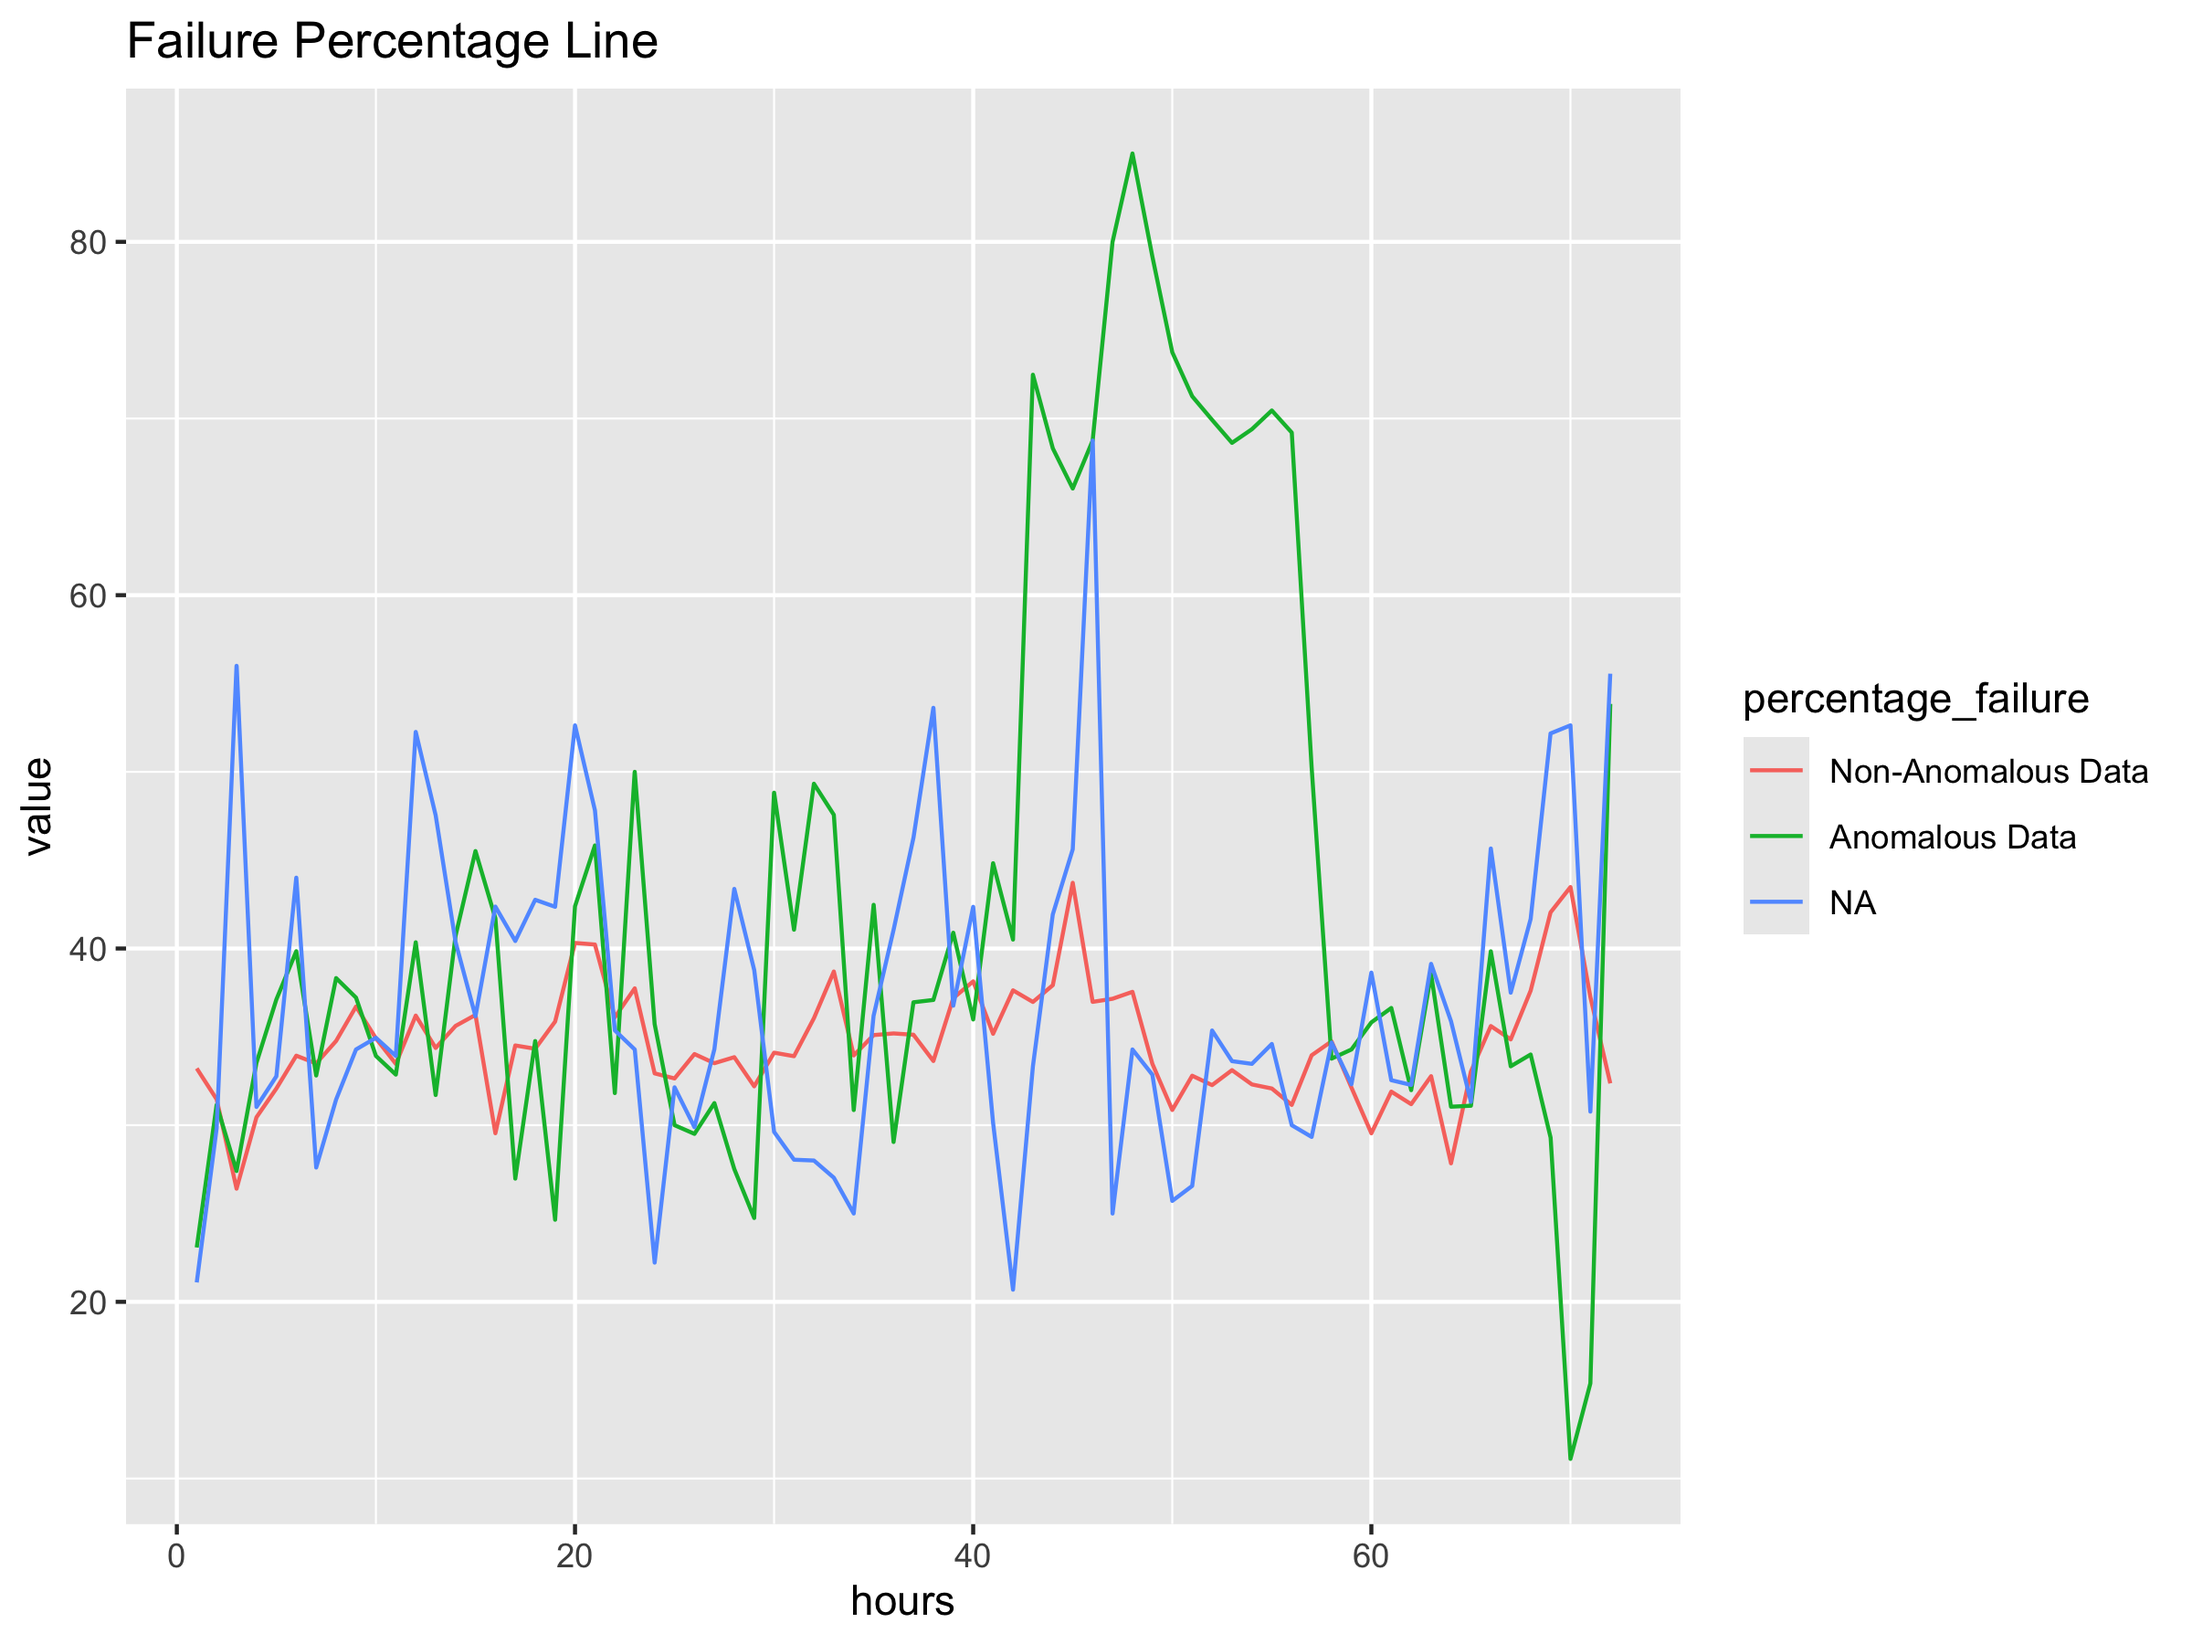
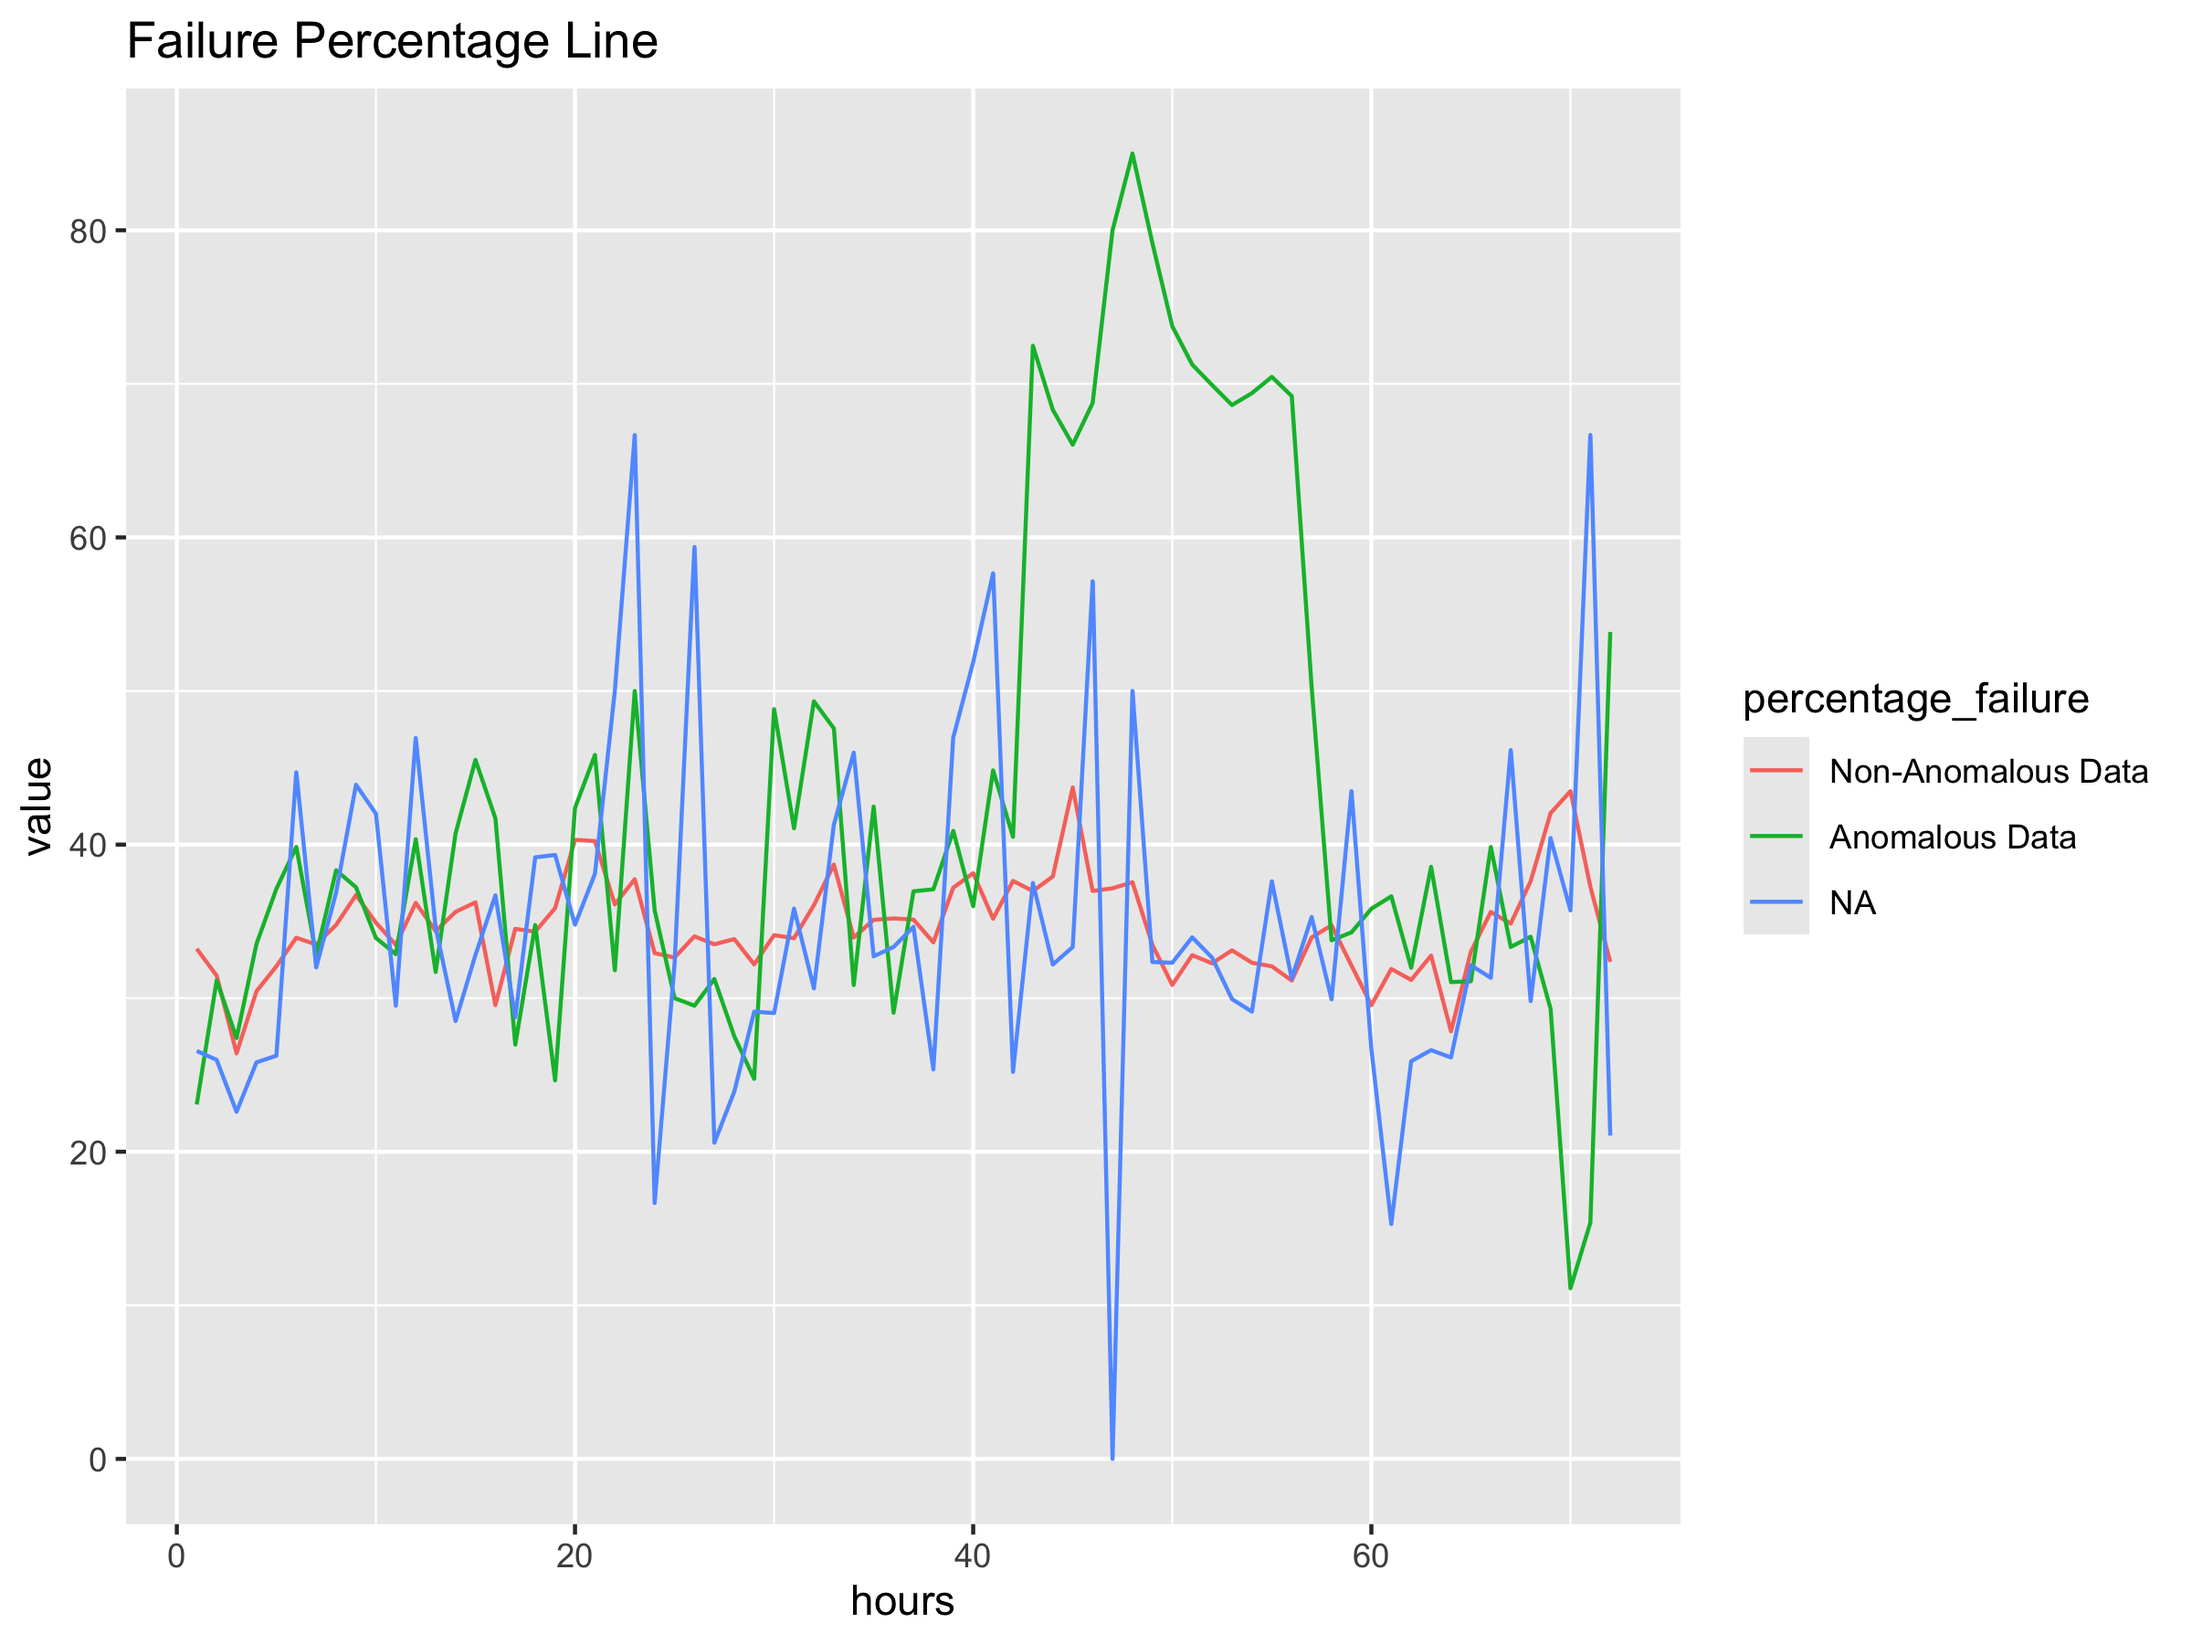
skfd

diff --git a/Anamoly_Detection/ReadMe.md b/Anamoly_Detection/ReadMe.md
@@ -725,13 +725,13 @@ compliment_sample_sizes <- t
 (sum(compliment_sample_sizes[,2]))
 ```
 
-    ## [1] 14092
+    ## [1] 19296
 
 ``` r
 cat("totall transactions in sample of observations from normal data of equal size to number of anamoly observations.",sum(compliment_sample_sizes[,2]))
 ```
 
-    ## totall transactions in sample of observations from normal data of equal size to number of anamoly observations. 14092
+    ## totall transactions in sample of observations from normal data of equal size to number of anamoly observations. 19296
 
 ``` r
 hours <- seq(1, 72, 1)
@@ -766,7 +766,7 @@ ggplot(data = long, aes(x = hours, y = value, group = percentage_failure, color 
 cat("totall transactions in sample of observations from normal data of equal size to number of anamoly observations.",sum(compliment_sample_sizes[,2]))
 ```
 
-    ## totall transactions in sample of observations from normal data of equal size to number of anamoly observations. 14092
+    ## totall transactions in sample of observations from normal data of equal size to number of anamoly observations. 19296
 
 To make a fair comparison of the anomalous data and normal data before
 the anomaly event, the blue line is the failure rate of the normal data
@@ -840,8 +840,9 @@ ok what if for each payment method we made a plot of a curve for each
 payment gate way that somehow visualized the combination of transaction
 volume and failure rate
 
-<a href="https://jacob-j-richards.shinyapps.io/shiny/"
-target="_blank">Click here to use the Shiny App</a>
+\<a
+href=“[https://jacob-j-richards.shinyapps.io/shiny/”](https://jacob-j-richards.shinyapps.io/shiny/%22)
+target=”\_blank”\>Click here to use the Shiny App\</a\>
 
 ``` r
 paytm_subset <- data[
